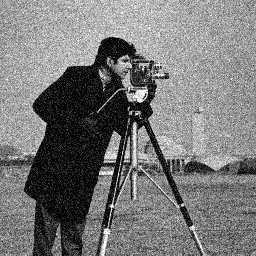
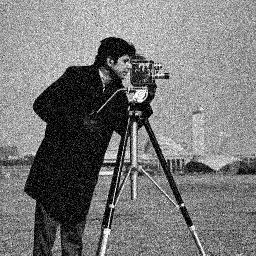
bm3d_2nd_step waiting for test

diff --git a/bm3d_2nd_step.py b/bm3d_2nd_step.py
@@ -1,0 +1,94 @@
+import numpy as np
+import cv2
+
+from utils import ind_initialize, preProcess, sd_weighting
+from precompute_BM import precompute_BM
+from bior_2d import bior_2d_forward, bior_2d_reverse
+from image_to_patches import image2patches
+from build_3D_group import build_3D_group
+from wiener_filtering_hadamard import wiener_filtering_hadamard
+
+
+def bm3d_2nd_step(sigma, img_noisy, img_basic, nWien, kWien, NWien, pWien, useSD, tau_2D):
+    height, width = img_noisy.shape[0], img_noisy.shape[1]
+
+    tauMatch = 400 if sigma < 35 else 3500  # ! threshold determinates similarity between patches
+
+    row_ind = ind_initialize(height - kWien + 1, nWien, pWien)
+    column_ind = ind_initialize(width - kWien + 1, nWien, pWien)
+
+    kaiserWindow, coef_norm, coef_norm_inv = preProcess(kWien)
+    ri_rj_N__ni_nj, threshold_count = precompute_BM(img_noisy, kHW=kWien, NHW=NWien, nHW=nWien, tauMatch=tauMatch)
+    group_len = int(np.sum(threshold_count))
+    group_3D_table = np.zeros((group_len, kWien, kWien))
+    weight_table = np.ones((height, width))
+
+    noisy_patches = image2patches(img_noisy, k=kWien, p=pWien)  # i_j_ipatch_jpatch__v
+    basic_patches = image2patches(img_basic, k=kWien, p=pWien)  # i_j_ipatch_jpatch__v
+    if tau_2D == 'DCT':
+        pass
+        # fre_all_patches = dct_2d_forward(all_patches)  # TODO
+    else:  # 'BIOR'
+        fre_noisy_patches = bior_2d_forward(noisy_patches)
+        fre_basic_patches = bior_2d_forward(basic_patches)
+
+    fre_noisy_patches = fre_noisy_patches.reshape((height - kWien + 1, height - kWien + 1, kWien, kWien))
+    fre_basic_patches = fre_basic_patches.reshape((height - kWien + 1, height - kWien + 1, kWien, kWien))
+
+    acc_pointer = 0
+    for i_r in row_ind:
+        for j_r in column_ind:
+            nSx_r = threshold_count[i_r, j_r]
+            group_3D_img = build_3D_group(fre_noisy_patches, ri_rj_N__ni_nj[i_r, j_r], nSx_r)
+            group_3D_est = build_3D_group(fre_basic_patches, ri_rj_N__ni_nj[i_r, j_r], nSx_r)
+            group_3D_img = group_3D_img.reshape(kWien * kWien, nSx_r)
+            group_3D_est = group_3D_est.reshape(kWien * kWien, nSx_r)
+
+            group_3D, weight = wiener_filtering_hadamard(group_3D_img, group_3D_est, sigma, not useSD)
+
+            group_3D = group_3D.reshape(kWien, kWien, nSx_r)
+            group_3D = group_3D.transpose((2, 0, 1))
+
+            group_3D_table[acc_pointer:acc_pointer + nSx_r] = group_3D
+            acc_pointer += nSx_r
+
+            if useSD:
+                weight = sd_weighting(group_3D)
+
+            weight_table[i_r, j_r] = weight
+
+    if tau_2D == 'DCT':
+        pass
+        # dct_2d_reverse(group_3D_table)  # TODO
+    else:  # 'BIOR'
+        group_3D_table = bior_2d_reverse(group_3D_table)
+
+    # for i in range(1000):
+    #     patch = group_3D_table[i]
+    #     print(i, '----------------------------')
+    #     print(patch)
+    #     cv2.imshow('', patch.astype(np.uint8))
+    #     cv2.waitKey()
+
+    group_3D_table *= kaiserWindow
+
+    numerator = np.zeros_like(img_noisy, dtype=np.float)
+    denominator = np.zeros_like(img_noisy, dtype=np.float)
+    acc_pointer = 0
+    for i_r in row_ind:
+        for j_r in column_ind:
+            nSx_r = threshold_count[i_r, j_r]
+            N_ni_nj = ri_rj_N__ni_nj[i_r, j_r]
+            group_3D = group_3D_table[acc_pointer:acc_pointer + nSx_r]
+            acc_pointer += nSx_r
+            weight = weight_table[i_r, j_r]
+            for n in range(nSx_r):
+                ni, nj = N_ni_nj[n]
+                patch = group_3D[n]
+
+                numerator[ni:ni + kWien, nj:nj + kWien] += patch * weight
+                denominator[ni:ni + kWien, nj:nj + kWien] += kaiserWindow * weight
+
+    img_denoised= numerator / denominator
+    img_denoised = img_denoised.astype(np.uint8)
+    return img_denoised

diff --git a/wiener_filtering_hadamard.py b/wiener_filtering_hadamard.py
@@ -20,7 +20,7 @@ def wiener_filtering_hadamard(group_3D_img, group_3D_est, sigma, doWeight):
     if doWeight:
         weight = 1. / (sigma * sigma * weight) if weight > 0. else 1.
 
-    return weight
+    return group_3D_est, weight
 
 
 def hadamard_transform(vec):

diff --git a/psnr.py b/psnr.py
@@ -5,7 +5,7 @@ import math
 def compute_psnr(img1, img2):
     mse = numpy.mean((img1 - img2) ** 2)
     if mse == 0:
-        return 100
+        return "Same Image"
     PIXEL_MAX = 255.0
     return 20 * math.log10(PIXEL_MAX / math.sqrt(mse))
 

diff --git a/01_run_bm3d.py b/01_run_bm3d.py
@@ -9,8 +9,7 @@ sigma = 25
 nHard = 16
 kHard = 8
 NHard = 16
-# pHard = 3
-pHard = 1
+pHard = 3
 useSD_h = False
 tau_2D_hard = 'BIOR'
 
